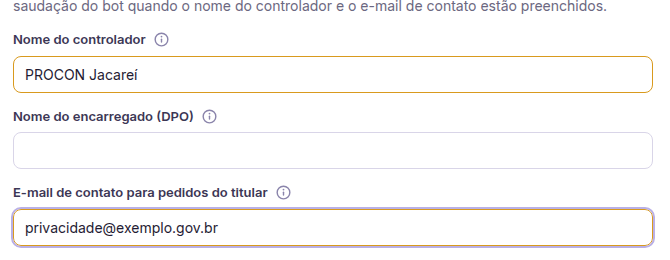
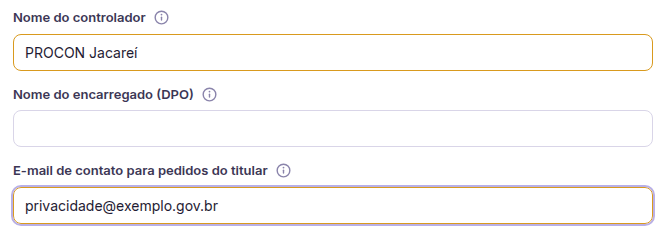
Docs :bulb: [#118] Alinha os pedidos do titular ao procedimento e refaz o recorte da aba Privacidade no guia de configuração do bot

diff --git a/.docs/guias/guia-configuracao-do-bot.md b/.docs/guias/guia-configuracao-do-bot.md
@@ -359,7 +359,7 @@ Ela guarda os dados de quem responde, no PROCON, pelo tratamento dos dados pesso
 
 1. Clique na aba **Privacidade**.
 2. Preencha o **Nome do controlador** (quem responde pelos dados na instituição).
-3. Preencha o **E-mail de contato para pedidos do titular** (o e-mail onde o cidadão pede acesso, correção ou exclusão dos próprios dados).
+3. Preencha o **E-mail de contato para pedidos do titular** (o e-mail onde o cidadão pede acesso ou exclusão dos próprios dados).
 4. Se quiser, preencha os demais campos, como o nome do encarregado.
 5. Clique em **Salvar alterações**.
 
